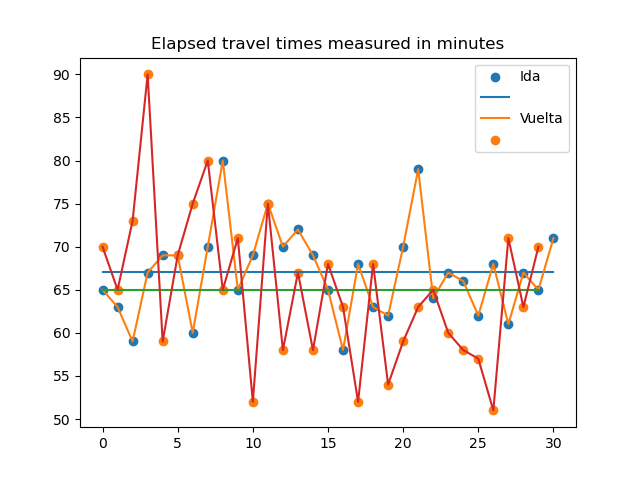
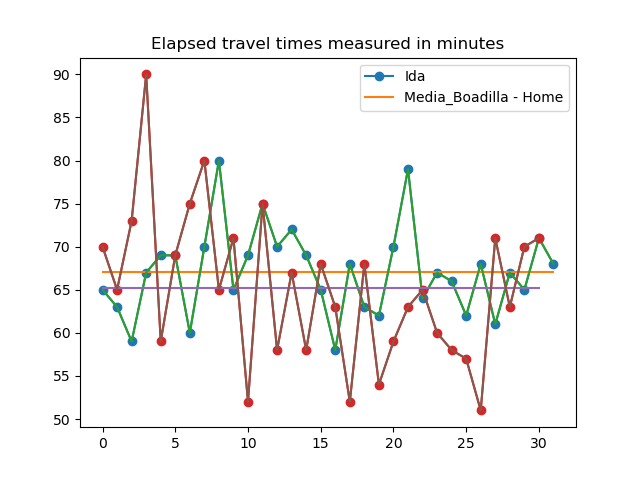
changes to analytics plot

diff --git a/analytics/analytics.py b/analytics/analytics.py
@@ -4,7 +4,7 @@ import os
 
 print("This is a script to analyze gathered data")
 
-print(os.getcwd(), os.listdir(), os.listdir("./../input_files"))
+# print(os.getcwd(), os.listdir(), os.listdir("./../input_files"))
 
 file = 'historic_travels2.csv'
 input_file_path = os.path.join("./../input_files", file)
@@ -22,17 +22,22 @@ df.to_csv(output_file_path, sep="|")
 
 import matplotlib.pyplot as plt
 
+q = 12
+
 for direction in df["direction"].unique().tolist():
     print(" DIRECTION ", direction)
     sub_df = df.loc[df["direction"] == direction].reset_index()
     elapsed_times = sub_df["elapsed_time (mins)"].to_numpy(copy=True)
-    plt.scatter(range(len(elapsed_times)), elapsed_times)
-    plt.plot(range(len(elapsed_times)), [np.mean(elapsed_times) for i in range(len(elapsed_times))])
-    print(sub_df)
-    sub_df["elapsed_time (mins)"].plot()
+    mean_time = np.mean(elapsed_times)
+    plt.plot(range(len(elapsed_times)), elapsed_times, marker="o")
+    plt.plot(range(len(elapsed_times)), [mean_time for i in range(len(elapsed_times))])
+    plt.text(q, 70, direction + "_" + str(mean_time)[:2], rotation=40, verticalalignment='center')
+    q += 12
     plt.title("Elapsed travel times measured in minutes")
+    plt.legend([direction, "Media_" + direction])
+    plt.savefig("output_files/times_plot" + direction + ".png")
 
-    plt.legend(["Ida", "", "Vuelta", ""])
-plt.savefig("output_files/times_plot.png")
+plt.legend(["Ida", "tiempo_medio_ida", "vuelta", "tiempo_medio_vuelta"])
+plt.savefig("output_files/times_plot" + direction + ".png")
 plt.show()
 
